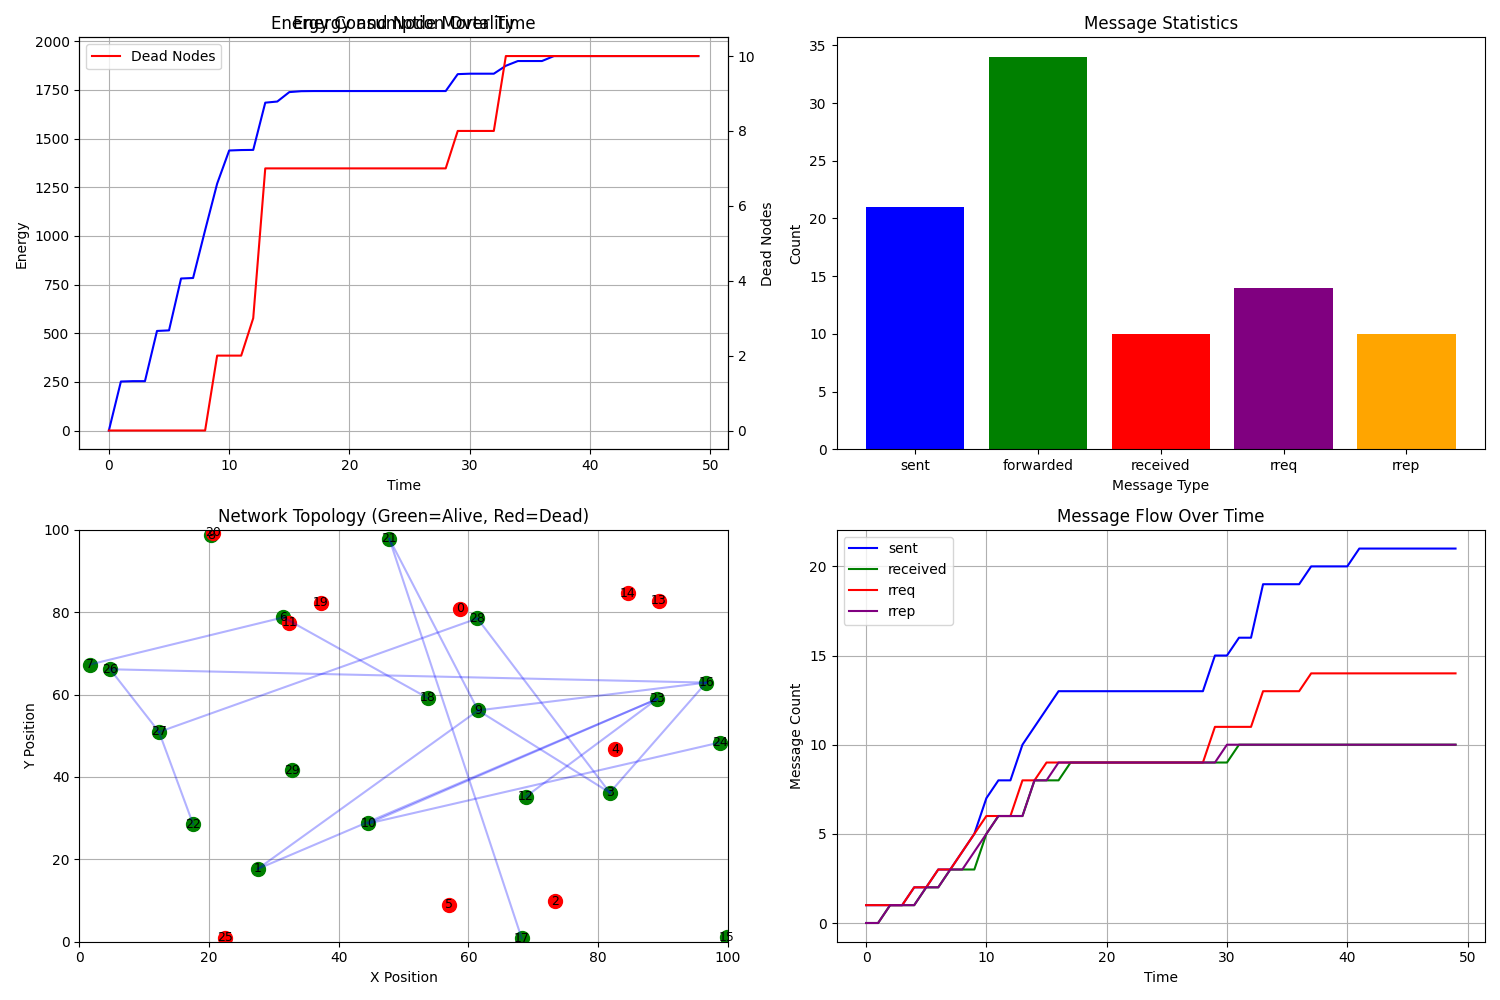
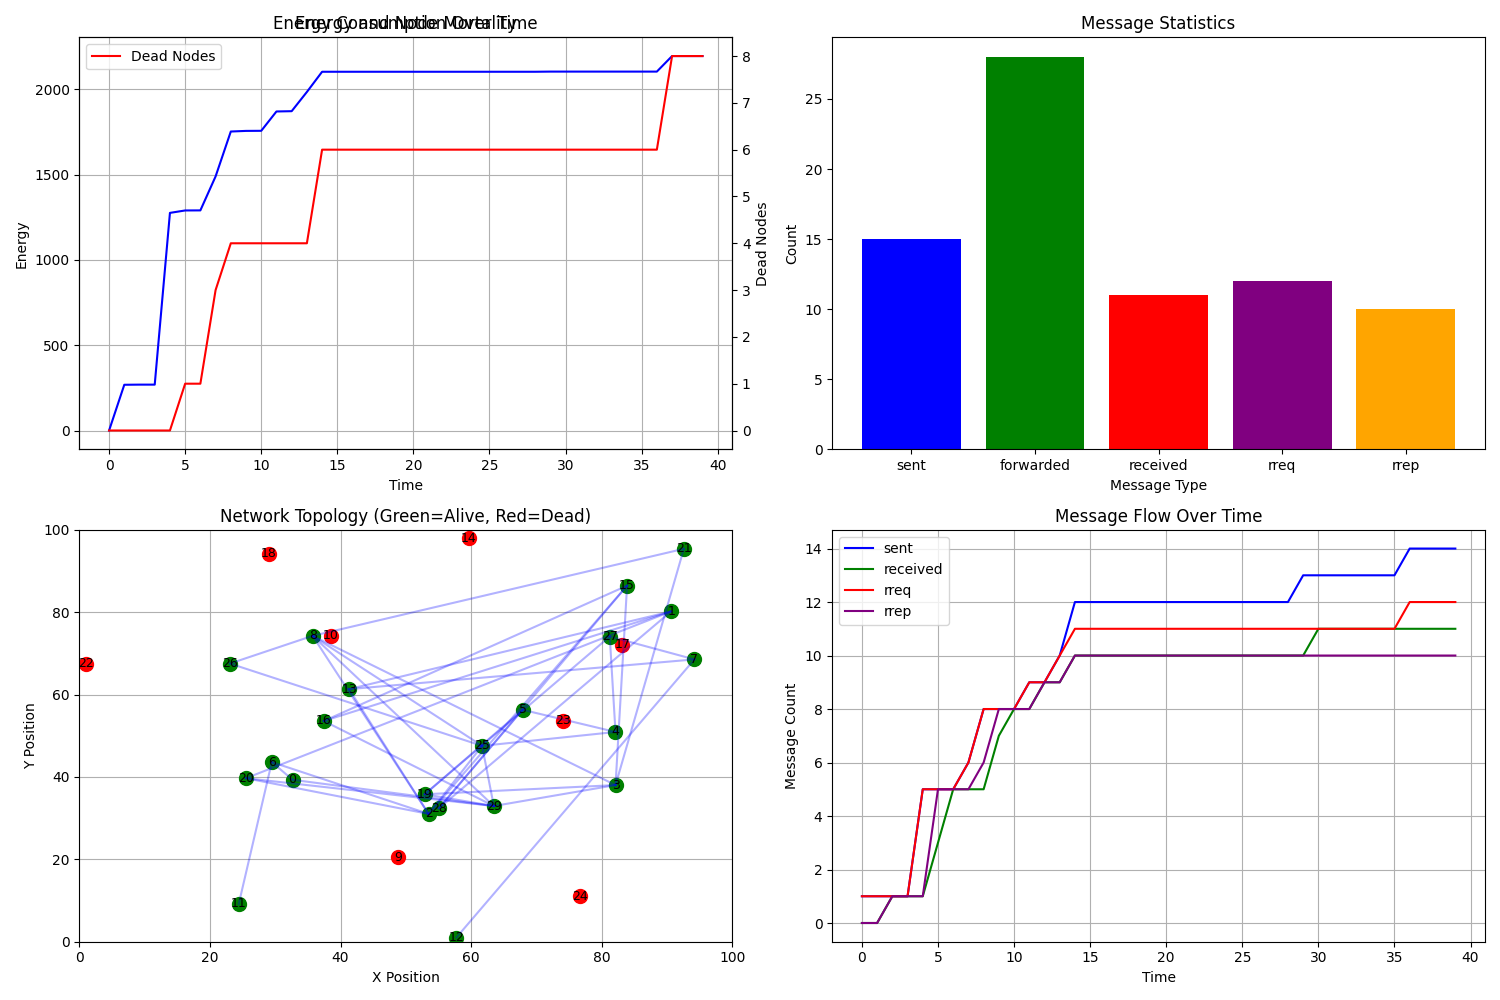
modifié paramètres conso

diff --git a/Codes/Avec Métriques/aodv_test_script.py b/Codes/Avec Métriques/aodv_test_script.py
@@ -451,7 +451,7 @@ class Simulation:
         self.duration = duration
         
         self.net = Network(
-            conso=(0.1, 0.5),
+            conso=(0.01, 0.25),
             seuil=5,
             coeff_dist=0.5,
             coeff_bat=0.5,
@@ -675,7 +675,7 @@ if __name__ == "__main__":
         num_nodes=30,    # Small network for debugging
         area_size=100,
         max_dist=100,
-        duration=50
+        duration=40
     )
     sim.run()
     
